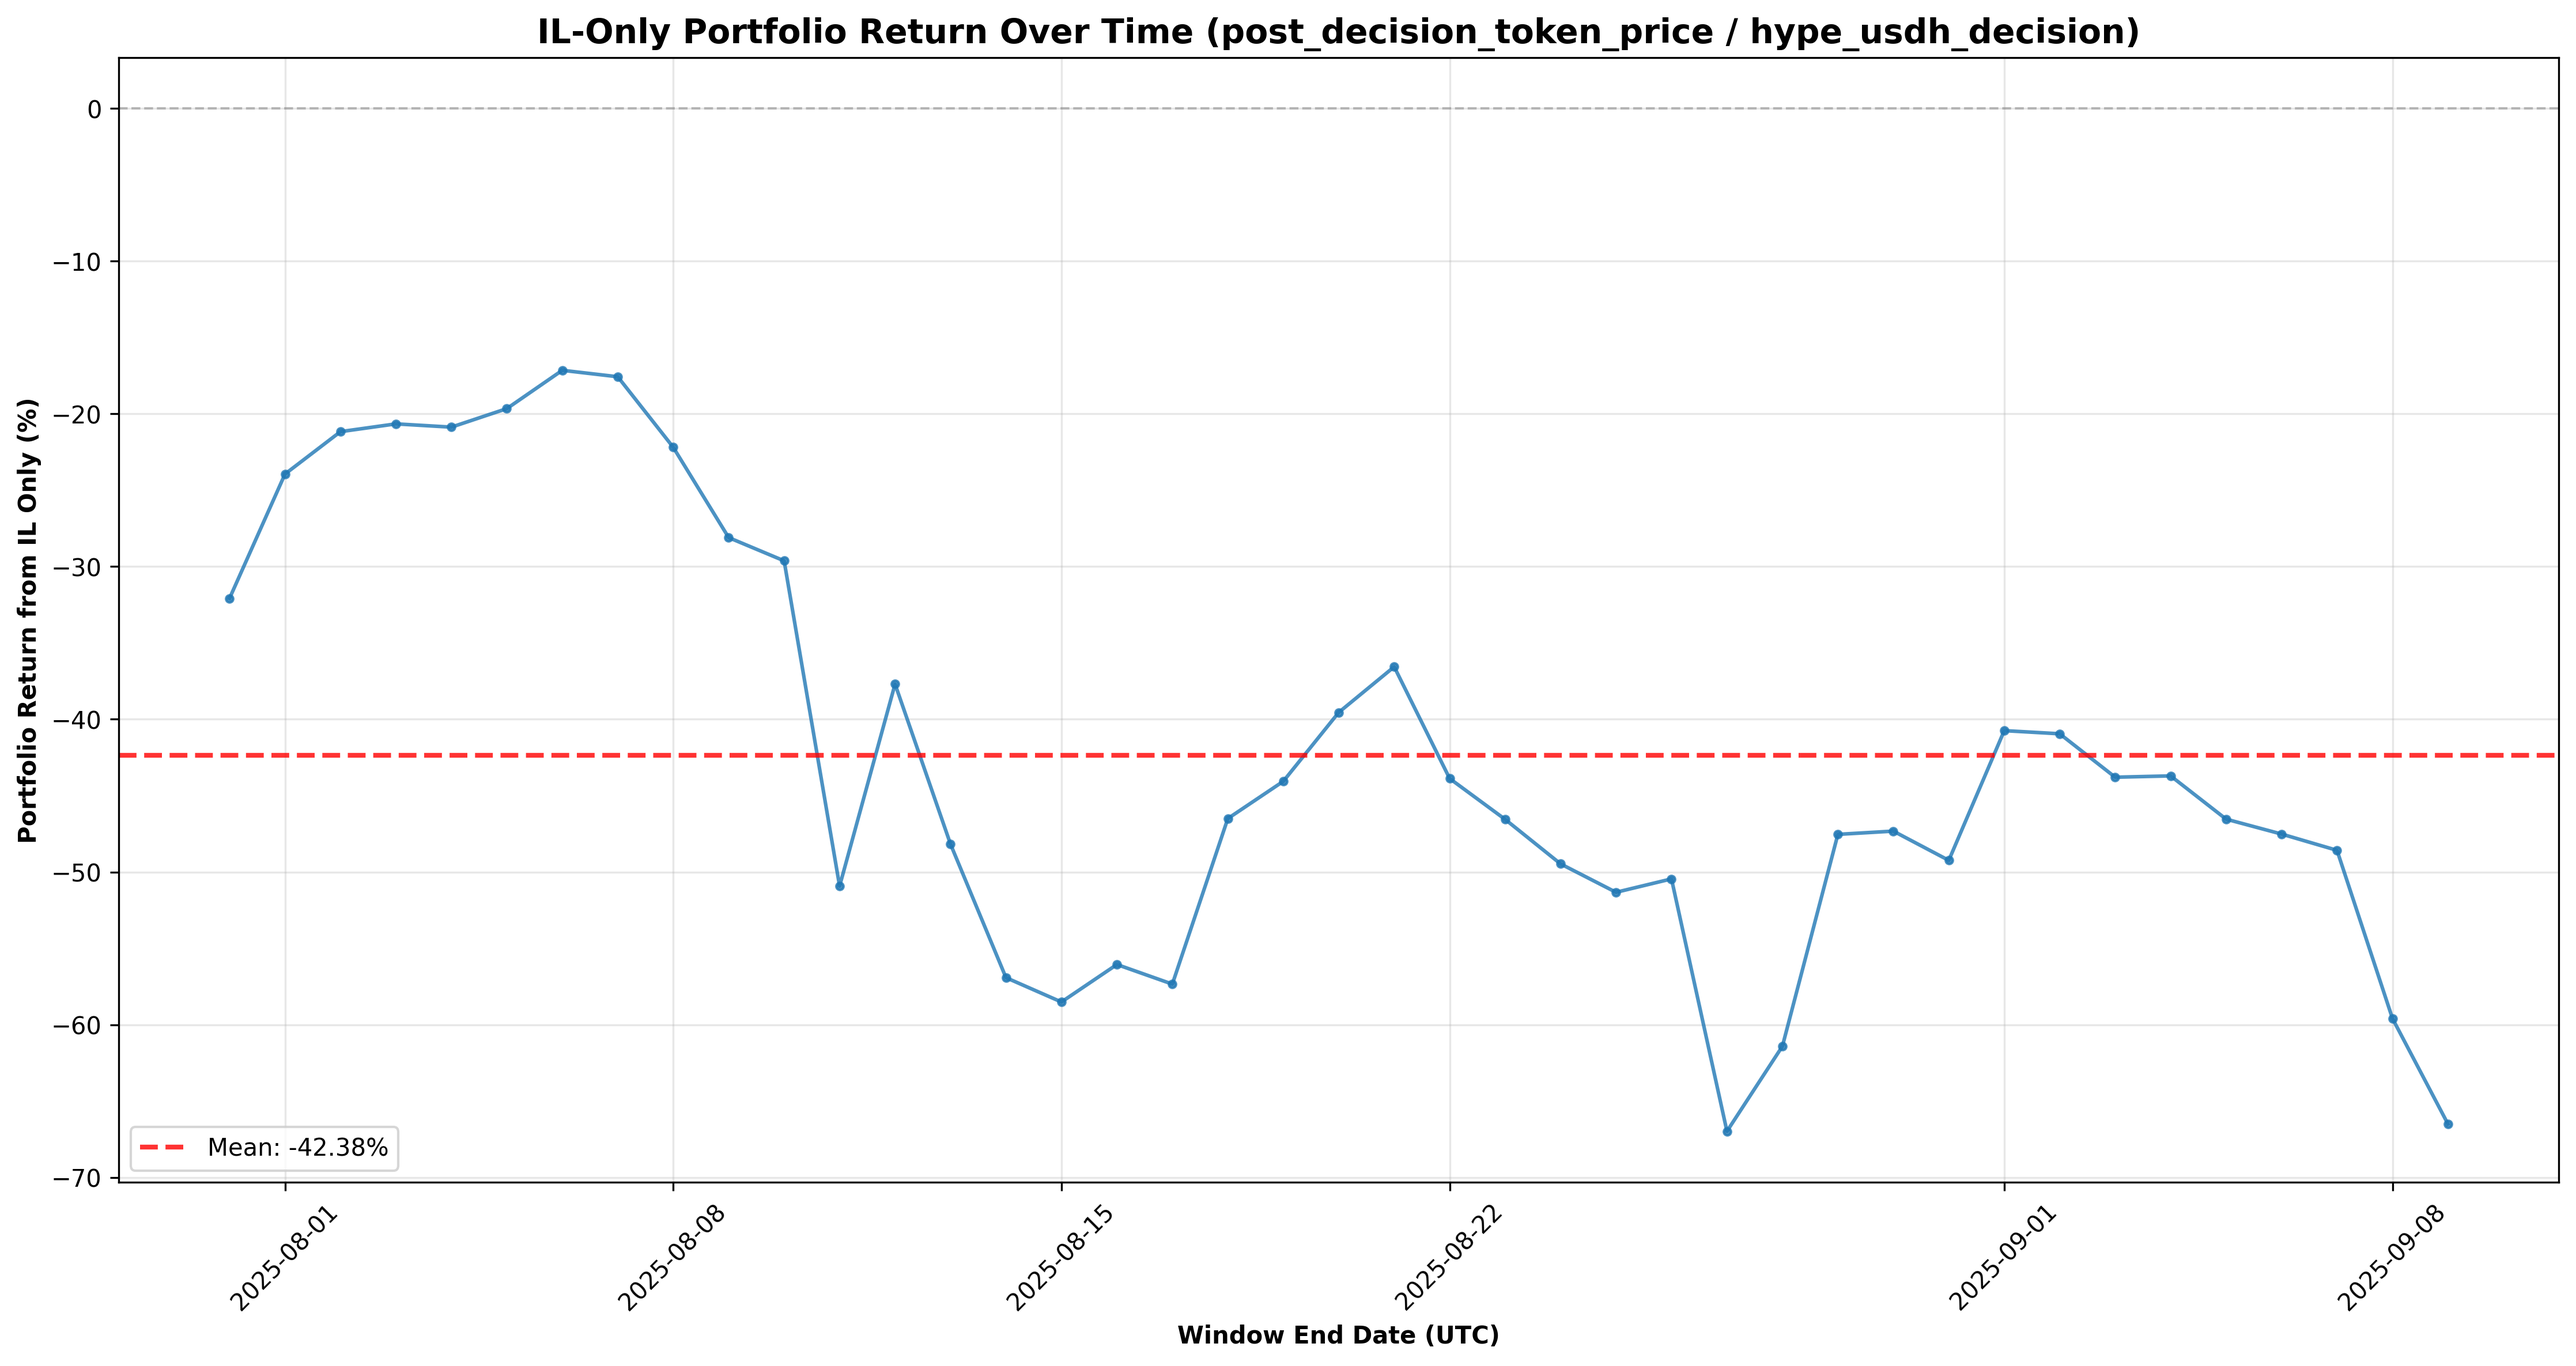
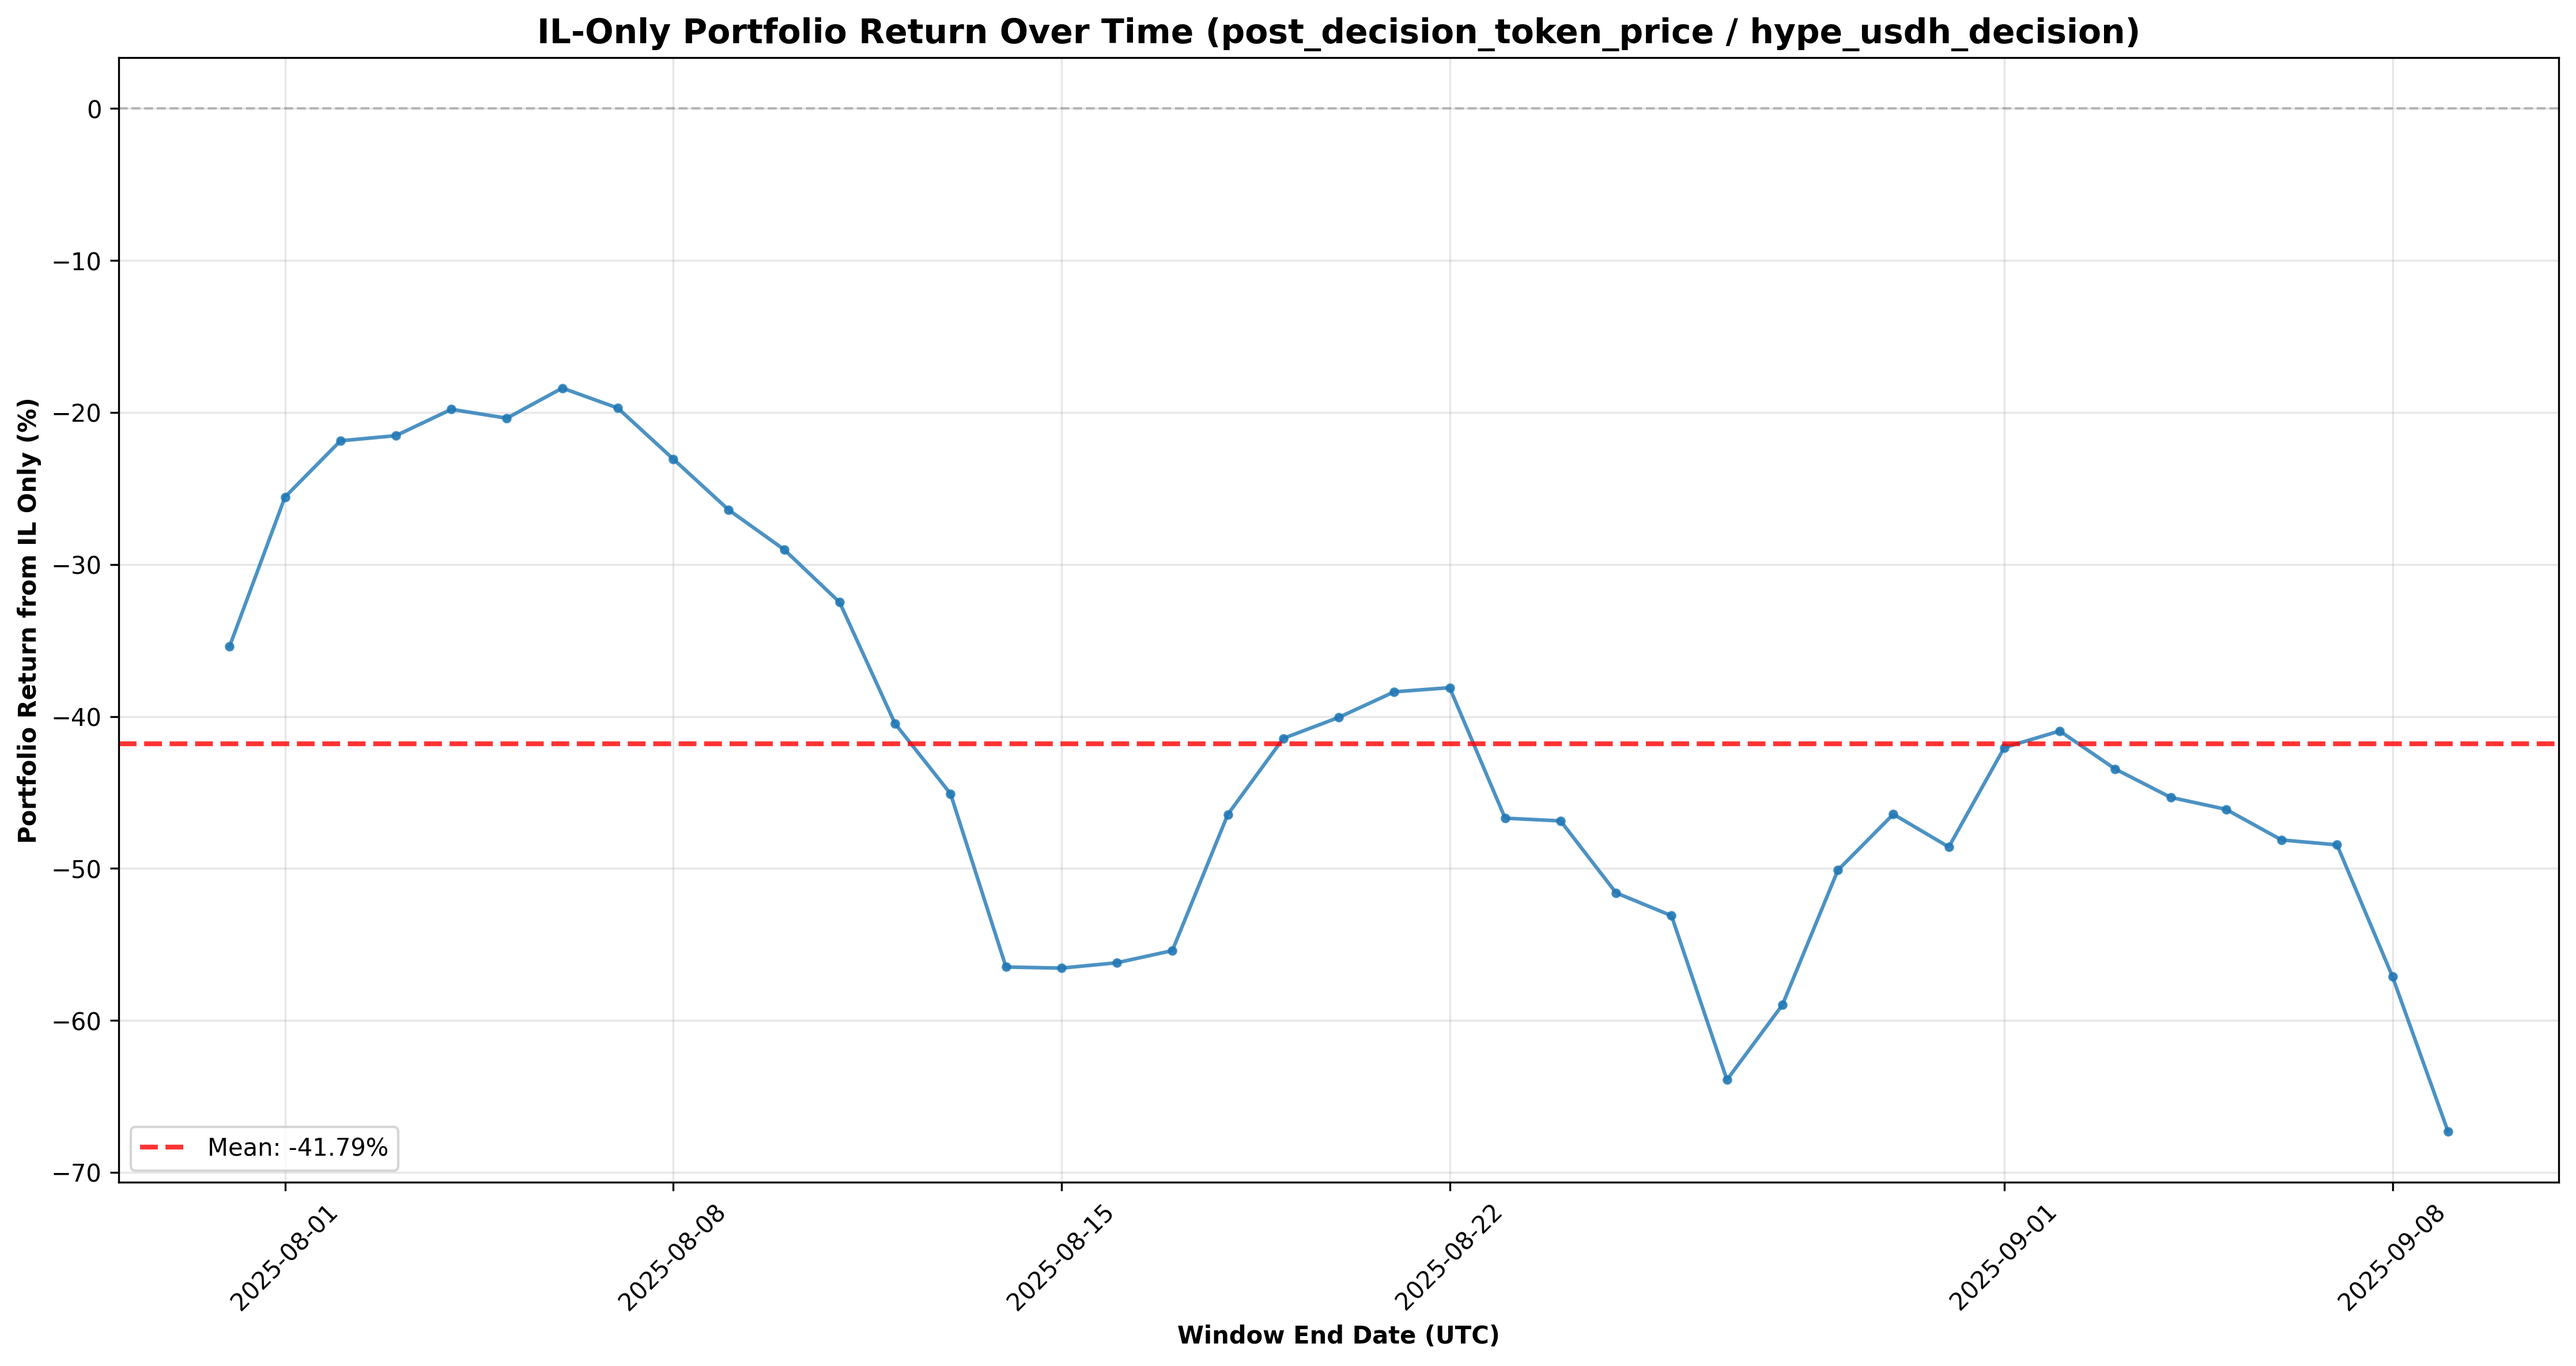
il_by_window.csv il_hist.png il_report.md il_timeseries.png

diff --git a/post_decision_token_price/hype_usdh_decision/2025-09-10-to-2025-09-15/il_report.md b/post_decision_token_price/hype_usdh_decision/2025-09-10-to-2025-09-15/il_report.md
@@ -48,7 +48,7 @@ We simulate starting at each historical window strictly earlier than the cutoff 
 We **exclude** very early windows until a minimum history (processing.min_historical_data_months) has elapsed to avoid unstable bounds.
 
 ## Important
-- **Mean** -42.38% and **median** -46.50% IL-only returns are shown below.
+- **Mean** -41.79% and **median** -45.09% IL-only returns are shown below.
 - These IL losses must be compared to incentive APY to calculate your net returns.
 
 ## Portfolio Performance
@@ -63,8 +63,8 @@ This time series shows how IL-only portfolio returns have varied across differen
 ### Distribution Summary (IL-only, %)
 
 - Count: **41**
-- Mean: **-42.38%**, Std: **13.70%**
-- Median: **-46.50%**  |  P25: **-50.45%**  |  P10: **-58.51%**  |  P75: **-32.08%**
+- Mean: **-41.79%**, Std: **13.08%**
+- Median: **-45.09%**  |  P25: **-50.12%**  |  P10: **-56.56%**  |  P75: **-32.49%**
 
 ## Calculating Your Net APY
 
@@ -85,13 +85,13 @@ Where:
 - **IL_Return**: Your expected impermanent loss return (as a decimal, typically negative)
 
 ### Example Calculation (Hypothetical Numbers Only):
-**Example calculation only**: Let's say Merkl shows **200% APY** (this is just an example - actual APY varies by market) and you experience the **median IL loss (-46.50%)**:
+**Example calculation only**: Let's say Merkl shows **200% APY** (this is just an example - actual APY varies by market) and you experience the **median IL loss (-45.09%)**:
 
 1. **Scale Merkl APY to period**: 200% × 0.014 = 2.7%
 2. **Convert to multiplier**: 1 + 2.7% = 1.027
-3. **Apply median IL loss**: 1.027 × (1 + -46.5%) = 1.027 × 0.535 = 0.550
-4. **Net return for 5 days**: -45.0%
-5. **Annualized (APY)**: (0.550)^73.0 - 1 = **-100.0% APY**
+3. **Apply median IL loss**: 1.027 × (1 + -45.1%) = 1.027 × 0.549 = 0.564
+4. **Net return for 5 days**: -43.6%
+5. **Annualized (APY)**: (0.564)^73.0 - 1 = **-100.0% APY**
 
 **Steps to use this with your actual numbers:**
 1. Find your market's Merkl campaign and note the **actual APY** (not the 200% example)
